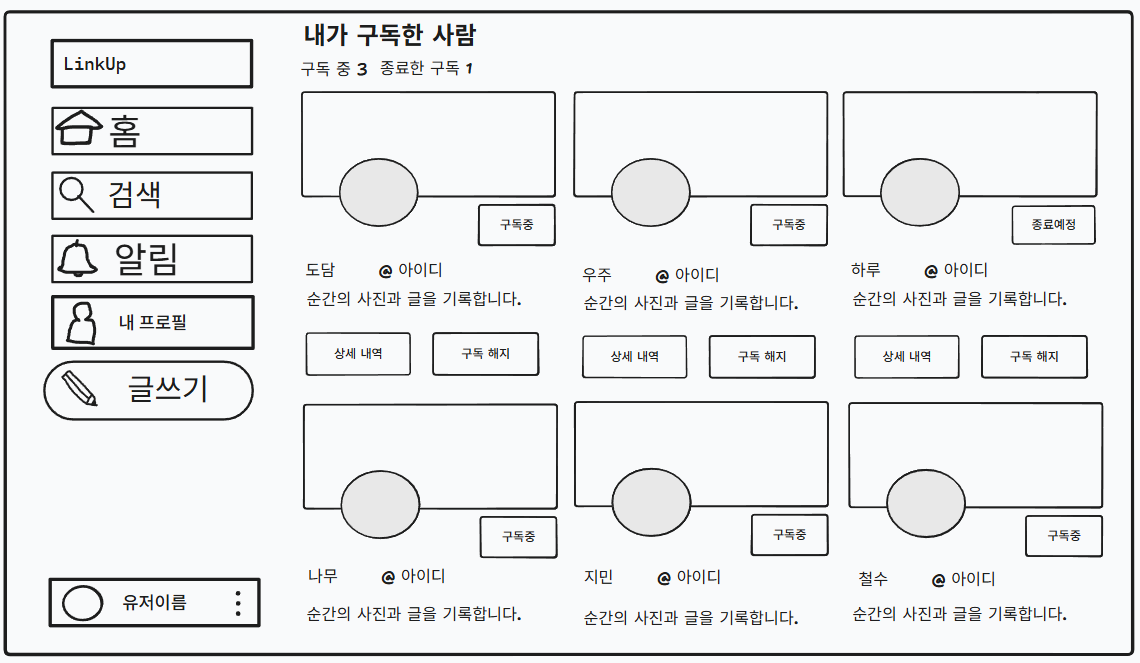
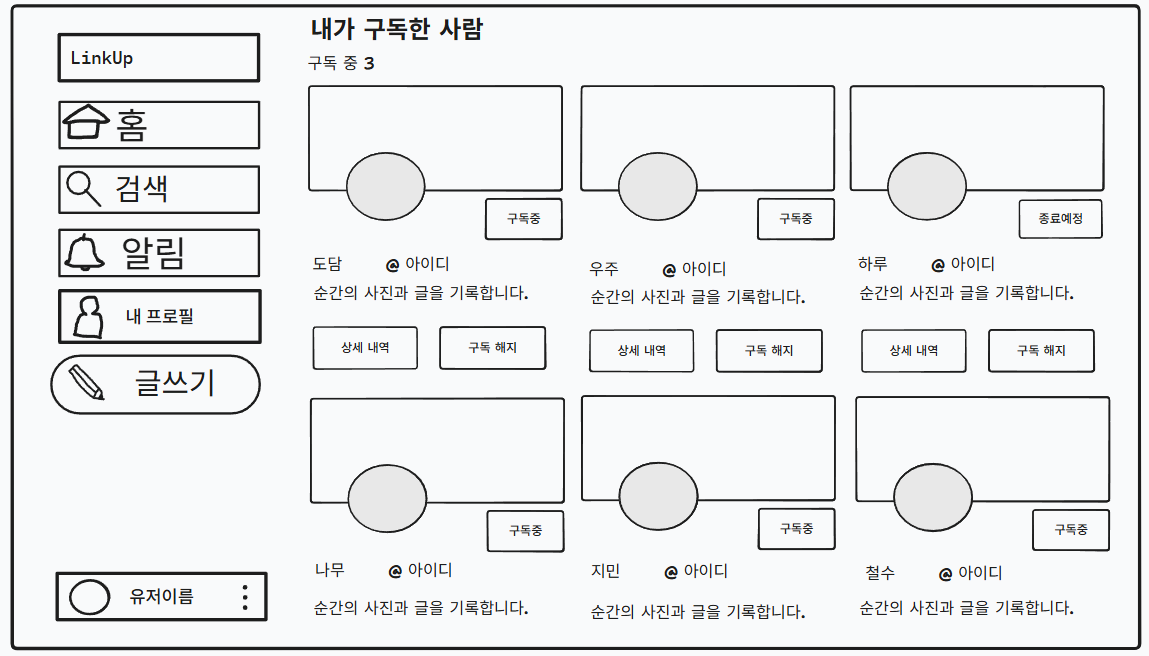
FEAT: 구독 수 출력 추가

diff --git a/src/pages/SubscriptionsPage.tsx b/src/pages/SubscriptionsPage.tsx
@@ -23,7 +23,7 @@ function toDisplayStatus(item: SubscribeCreatorListResponse): SubscriptionDispla
 export function SubscriptionsPage() {
   const memberId = useAuthStore((state) => state.profile?.id ?? FALLBACK_MEMBER_ID);
   const accessToken = useAuthStore((state) => state.accessToken);
-  const { subscriptions, hasNext, loading, error, loadMore } = useSubscriptions(
+  const { subscriptions, totalCount, hasNext, loading, error, loadMore } = useSubscriptions(
     memberId,
     accessToken,
   );
@@ -54,19 +54,13 @@ export function SubscriptionsPage() {
   }, [error, hasNext, loadMore, loading, subscriptions.length]);
 
   const items = subscriptions.map((item) => ({ item, status: toDisplayStatus(item) }));
-  const activeCount = items.filter(({ status }) => status === 'active').length;
-  const countSuffix = hasNext ? '+' : '';
-
   return (
     <section className="flex h-full min-h-0 flex-col rounded-2xl bg-white px-5 py-4 shadow-sm">
       <header className="shrink-0 border-b border-zinc-100 pb-4">
         <h1 className="text-lg font-bold text-zinc-900">내가 구독한 사람</h1>
         <p className="mt-1 text-sm text-zinc-500">
           구독 중{' '}
-          <span className="font-semibold text-linkup">
-            {activeCount}
-            {countSuffix}
-          </span>
+          <span className="font-semibold text-linkup">{totalCount}</span>
         </p>
       </header>
 

diff --git a/src/hooks/useSubscriptions.ts b/src/hooks/useSubscriptions.ts
@@ -7,6 +7,7 @@ const PAGE_SIZE = 9;
 
 export function useSubscriptions(memberId: number, accessToken: string | null) {
   const [subscriptions, setSubscriptions] = useState<SubscribeCreatorListResponse[]>([]);
+  const [totalCount, setTotalCount] = useState(0);
   const [hasNext, setHasNext] = useState(true);
   const [loading, setLoading] = useState(true);
   const [error, setError] = useState<string | null>(null);
@@ -37,6 +38,7 @@ export function useSubscriptions(memberId: number, accessToken: string | null) {
         setSubscriptions((current) =>
           isFirstPage ? page.subCreatorList : [...current, ...page.subCreatorList],
         );
+        setTotalCount(page.subCreatorCount);
         cursorRef.current = page.nextCursor;
         // nextCursor 가 없으면 더 요청할 수 없으므로 종료로 본다.
         hasNextRef.current = page.hasNext && page.nextCursor !== null;
@@ -64,5 +66,5 @@ export function useSubscriptions(memberId: number, accessToken: string | null) {
     return () => controller.abort();
   }, [loadMore]);
 
-  return { subscriptions, hasNext, loading, error, loadMore };
+  return { subscriptions, totalCount, hasNext, loading, error, loadMore };
 }

diff --git a/src/api/subscriptions.ts b/src/api/subscriptions.ts
@@ -38,6 +38,7 @@ function isPagingSubListResponse(value: unknown): value is PagingSubListResponse
   return (
     Array.isArray(value.subCreatorList) &&
     value.subCreatorList.every(isSubscribeCreator) &&
+    typeof value.subCreatorCount === 'number' &&
     (value.nextCursor === null ||
       value.nextCursor === undefined ||
       typeof value.nextCursor === 'number') &&
@@ -91,6 +92,7 @@ export async function fetchSubscriptions(
       profileImage: item.profileImage ?? null,
       introduction: item.introduction ?? null,
     })),
+    subCreatorCount: data.subCreatorCount,
     nextCursor: data.nextCursor ?? null,
     hasNext: data.hasNext,
   };

diff --git a/src/types/subscription.ts b/src/types/subscription.ts
@@ -13,6 +13,7 @@ export interface SubscribeCreatorListResponse {
 /** GET /api/v1/subscriptions 응답 (PagingSubListResponse) */
 export interface PagingSubListResponse {
   subCreatorList: SubscribeCreatorListResponse[];
+  subCreatorCount: number;
   nextCursor: number | null;
   hasNext: boolean;
 }
